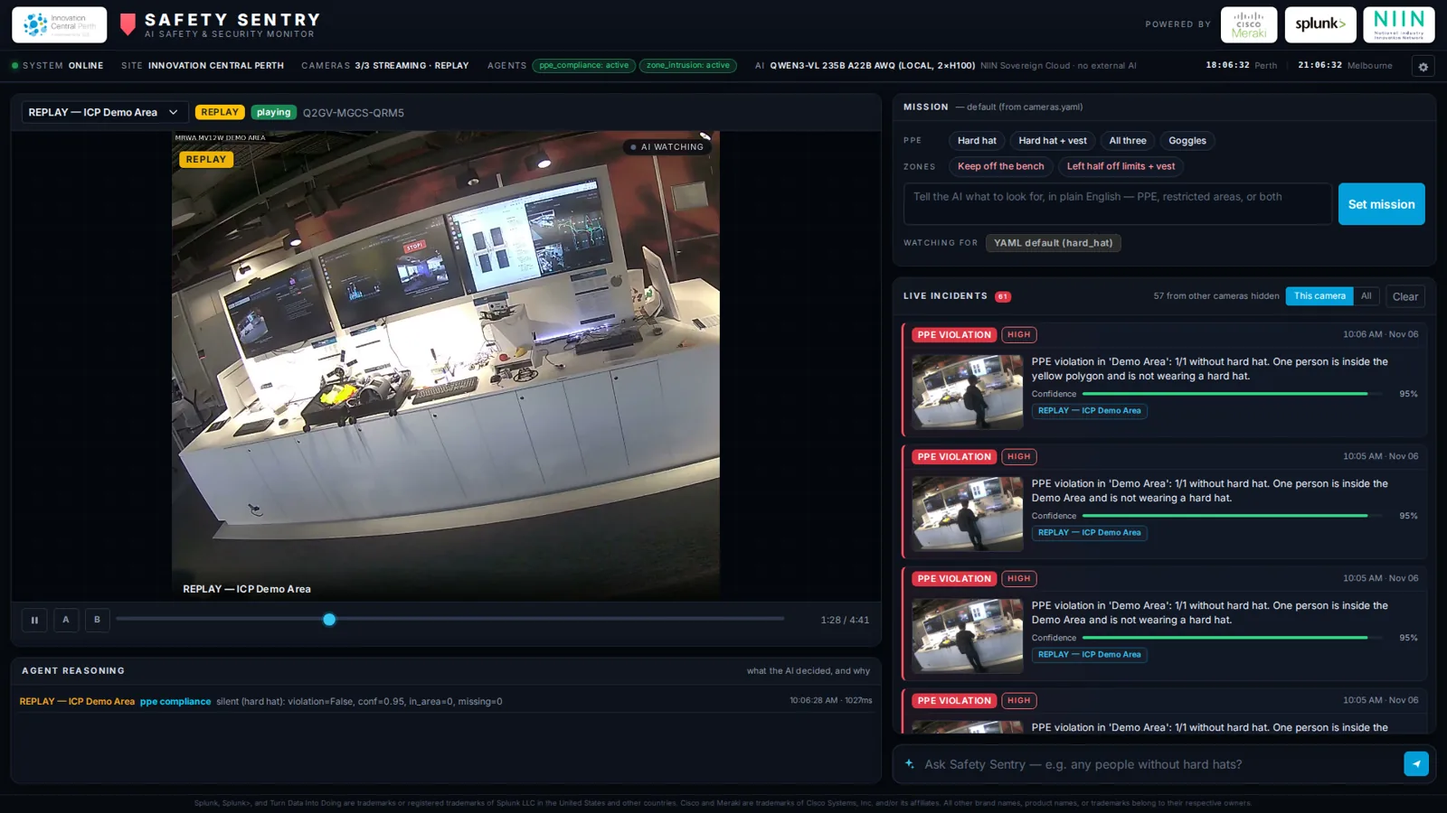
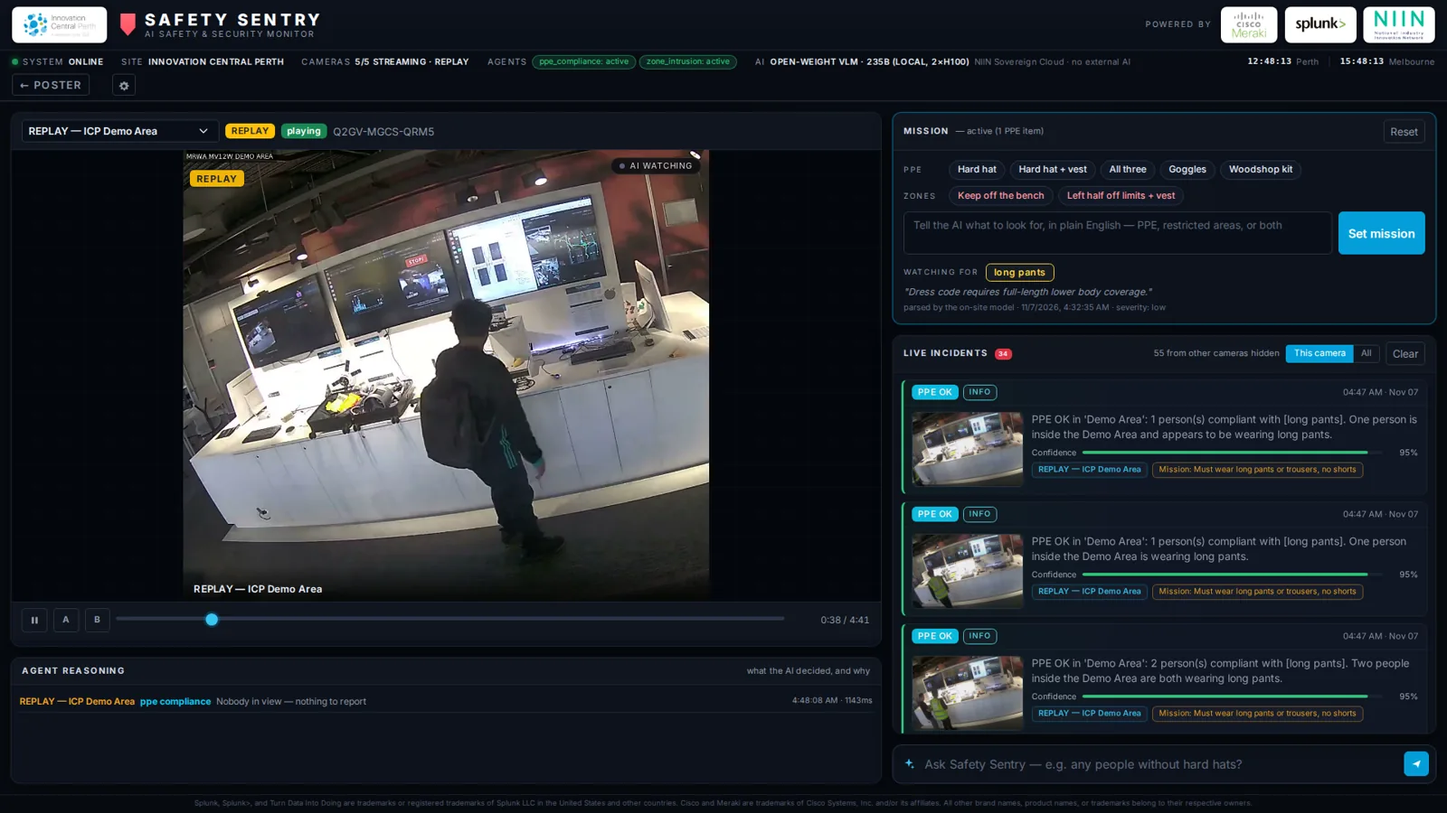
Poster: handheld vs big-screen modes, live-demo box, presenter notes, idle return
- Ninth wide box: on the big screen (served over http) it opens the live dashboard; on the
  handheld (saved file) it points visitors to the big screen. #handheld / #screen override.
- Screen copy returns to the overview after 60 s idle; handheld never auto-resets.
- Presenter notes (Say / Point at / Careful) per tile, off unless opened with #notes.
- Dashboard: '<- Poster' button. Refreshed the dashboard screenshot (was showing the model
  name in the status bar; now neutral).
- Runbook: stand roles, walk-through order, reset-the-demo checklist, say / don't-say card.

diff --git a/poster/template.html b/poster/template.html
@@ -44,8 +44,32 @@ h1, h2, h3, p { margin: 0; }
 
 /* ---- overview grid ---- */
 .grid { flex: 1 1 auto; min-height: 0; display: grid; gap: .8rem; padding: .85rem 1.1rem;
-  grid-template-columns: repeat(4, 1fr); grid-template-rows: repeat(2, 1fr); }
-@media (orientation: portrait) { .grid { grid-template-columns: repeat(2, 1fr); grid-template-rows: repeat(4, 1fr); } }
+  grid-template-columns: repeat(4, 1fr); grid-template-rows: repeat(2, 1fr) auto; }
+@media (orientation: portrait) { .grid { grid-template-columns: repeat(2, 1fr); grid-template-rows: repeat(4, 1fr) auto; } }
+.tile.cta { grid-column: 1 / -1; flex-direction: row; align-items: center; gap: 1.1rem; padding: .75rem 1.2rem;
+  background: linear-gradient(100deg, rgba(4,159,217,.22), rgba(4,159,217,.06)); border-color: rgba(4,159,217,.7); }
+.tile.cta .num { flex-direction: column; gap: .2rem; min-width: 2.2rem; }
+.tile.cta .ctext { flex: 1 1 auto; min-width: 0; }
+.tile.cta h2 { margin-top: 0; font-size: 1.25rem; }
+.tile.cta .one { font-size: .86rem; }
+.tile.cta .arrow { flex: none; font-size: 2.1rem; font-weight: 800; color: var(--accent2); line-height: 1; }
+.tile.cta.link .arrow { animation: nudge 1.6s ease-in-out infinite; }
+@keyframes nudge { 50% { transform: translateX(.35rem); } }
+@media (prefers-reduced-motion: reduce) { .tile.cta.link .arrow { animation: none; } }
+
+/* presenter notes: off unless the page is opened with #notes */
+.notesbtn { position: fixed; right: .8rem; bottom: .8rem; z-index: 60; padding: .5rem 1rem; border-radius: 999px;
+  background: rgba(139,149,168,.2); border: 1px solid var(--line2); font-size: .8rem; font-weight: 700; letter-spacing: .06em; color: var(--text); backdrop-filter: blur(6px); }
+.notes { position: fixed; left: 0; right: 0; bottom: 0; z-index: 55; max-height: 62vh; overflow: auto; padding: 1rem 1.3rem 4rem;
+  background: rgba(7,11,20,.96); border-top: 2px solid var(--warn); box-shadow: 0 -12px 40px rgba(0,0,0,.6); }
+.notes h4 { font-size: .7rem; letter-spacing: .18em; text-transform: uppercase; color: var(--warn); margin-bottom: .5rem; }
+.notes .ncols { display: grid; grid-template-columns: repeat(3, 1fr); gap: 1.2rem; }
+@media (orientation: portrait) { .notes .ncols { grid-template-columns: 1fr; gap: .6rem; } }
+.notes .nk { font-size: .64rem; letter-spacing: .16em; text-transform: uppercase; font-weight: 800; margin-bottom: .25rem; }
+.notes .nk.say { color: var(--ok); } .notes .nk.point { color: var(--accent2); } .notes .nk.avoid { color: #ff8a95; }
+.notes ul { margin: 0; padding-left: 1.1rem; font-size: .95rem; line-height: 1.4; color: #dbe2ef; }
+.notes li { margin-bottom: .3rem; }
+
 .tile { position: relative; display: flex; flex-direction: column; text-align: left; min-height: 0; overflow: hidden;
   background: var(--panel); border: 1px solid var(--line); border-radius: var(--r); padding: .9rem 1rem;
   transition: transform .12s ease, border-color .15s ease, background .15s ease; }
@@ -313,8 +337,28 @@ window.POSTER = __POSTER_JSON__;
     { id: 'next', n: 8, title: 'What’s next · say hello', one: 'Splunk and live video are next.',
       viz: `<div class="qrtile"><div class="qrbox">${QR_SVG}</div><div class="qrtext">Scan to reach<br>Innovation Central Perth<small>on LinkedIn</small></div></div>` },
   ];
+  /* How this copy of the poster is being used:
+       screen   = served from the VM (the big screen): the last box opens the live demo, and the
+                  poster returns to the overview after a minute of nobody touching it;
+       handheld = saved file on the roaming tablet: the last box points people to the big screen. */
+  const HASH = location.hash.toLowerCase();
+  const MODE = HASH.includes('handheld') ? 'handheld' : HASH.includes('screen') ? 'screen' : (/^https?:$/.test(location.protocol) ? 'screen' : 'handheld');
+  const DEMO_URL = /^https?:$/.test(location.protocol) ? location.origin + '/' : P.demo_url;
+  if (HASH.includes('notes')) localStorage.setItem('ss.notes', '1');
+  if (HASH.includes('nonotes')) localStorage.removeItem('ss.notes');
+  const NOTES_ON = localStorage.getItem('ss.notes') === '1';
   const grid = $('#grid');
+  TILES.push({ id: 'demo', n: 9, cta: true, title: MODE === 'screen' ? 'Live demo' : 'See it live on the big screen',
+    one: MODE === 'screen' ? 'Open the running system: cameras, missions, Ask. Replayed footage, live analysis.' : 'The running system is on the big screen. Walk over and we’ll show you.' });
   TILES.forEach((t) => {
+    if (t.cta) {
+      const el = h(`<button class="tile cta${MODE === 'screen' ? ' link' : ''}" type="button" data-id="demo">
+        <div class="num"><span>09</span></div><div class="ctext"><h2>${t.title}</h2><div class="one">${t.one}</div></div>
+        <span class="arrow">${MODE === 'screen' ? '▶' : '→'}</span></button>`);
+      el.addEventListener('click', () => { if (MODE === 'screen') location.href = DEMO_URL; else openPanel('demo'); });
+      grid.appendChild(el);
+      return;
+    }
     const el = h(`<button class="tile${t.star ? ' star' : ''}" type="button" data-id="${t.id}">
       <div class="num"><span>${String(t.n).padStart(2, '0')}</span>${t.star ? '<span class="star-tag">★ Try this</span>' : ''}</div>
       <h2>${t.title}</h2><div class="viz">${t.viz}</div><div class="one">${t.one}</div><div class="go">Tap to explore ›</div></button>`);
@@ -334,11 +378,12 @@ window.POSTER = __POSTER_JSON__;
     const pc = h('<div class="pc"></div>'); pbody.appendChild(pc);
     def.render(pc);
     panel.hidden = false;
+    showNotes(id);
     if (!fromPop) history.pushState({ panel: id }, '');
   }
   function closePanel(fromPop) {
     if (panel.hidden) return;
-    clearTimers(); panel.hidden = true;
+    clearTimers(); panel.hidden = true; showNotes('overview');
     if (!fromPop && history.state && history.state.panel) history.back();
   }
   $('#back').addEventListener('click', () => closePanel(false));
@@ -584,6 +629,102 @@ window.POSTER = __POSTER_JSON__;
         <div class="words"><b>Want this on your site?</b><p class="sub" style="margin-top:0">Find Innovation Central Perth on LinkedIn: scan the code, or ask us to show you the live system.</p>
         <p class="sub">Innovation Central Perth is a partnership between Curtin University and Cisco.</p></div></div>`;
   } };
+
+
+  /* the last box on a handheld copy: where to see the live system */
+  PANELS.demo = { title: 'Live demo', sub: '09', render(el) {
+    el.innerHTML = `<p class="lead">The running system is on the big screen.</p>
+      <p class="sub">Everything on this poster was recorded from it. On the screen you can see it work, and change what it is looking for.</p>
+      <div class="lessons">
+        <div class="card"><h3>Cameras</h3><p>Replayed footage from Innovation Central Perth and a woodshop. Always badged REPLAY. Scrub the video or loop a moment.</p></div>
+        <div class="card"><h3>Missions</h3><p>Type what to look for, in plain English, and watch the verdicts and incidents change within seconds.</p></div>
+        <div class="card"><h3>Ask</h3><p>Ask what it has seen: “Was anyone not wearing hearing protection?”</p></div>
+        <div class="card"><h3>On-site</h3><p>Analysed by an open-weight model on GPUs in NIIN Sovereign Cloud. Nothing goes to a public cloud AI.</p></div>
+      </div>
+      <p class="rec" style="margin-top:1.1rem">Walk over and we’ll show you.</p>`;
+  } };
+
+  /* ---------------- presenter notes (only with #notes in the address) ---------------- */
+  const NOTES = {
+    overview: {
+      say: ['“Most sites have cameras. Very few have anyone watching them. Let me show you what we built about that.”',
+        'Talk through tiles 1–7 in order, about 30 seconds each. Tile 8 is how to reach us. Tile 9 is the big screen.',
+        'It is internal: Cisco and Curtin colleagues. Keep it conversational.'],
+      point: ['The partner logos at the top: Meraki cameras, Splunk (next), NIIN (hosting), Innovation Central Perth.',
+        'Tile 3 has the star. If time is short, do 1, 3, then 9.'],
+      avoid: ['Don’t call anything live on this tablet: every frame here is recorded footage.', 'Don’t tap tile 9 on the handheld. Walk them to the big screen.'] },
+    problem: {
+      say: ['“These are real frames from our own Meraki cameras. Footage like this piles up faster than anyone can watch it.”',
+        '“And what counts as unsafe changes: a hard hat here, goggles there, a keep-out zone only while a crane lifts.”'],
+      point: ['The camera wall: quiet moment and a busy one for each camera.'],
+      avoid: ['Don’t say existing detectors are bad. They are fast and fixed; this one is flexible.'] },
+    idea: {
+      say: ['“You just tell it what to look for, in plain English. No retraining, no code.”',
+        `“The on-site model turns the sentence into checks in about ${(parseLat / 1000).toFixed(1)} seconds.”`],
+      point: ['The three examples: items, a keep-out zone, and a mixed mission.'],
+      avoid: ['Don’t say it understands anything you type. Next panels show where it struggles.'] },
+    hero: {
+      say: ['“Same frame, same moment. Watch the verdict change as I change the mission.”',
+        'Switch Scene to Woodshop: same person, same saw, more protection each time. Tap “All three” on each.',
+        '“These are results recorded from the running system, with the real time it took.”'],
+      point: ['“All three” on the first frame is a violation, on the full-kit frame it is compliant.',
+        'The recorded time per verdict, about a second or two.'],
+      avoid: ['Don’t say it is perfect. The last Lessons card gives the measured woodshop accuracy.',
+        'On the full-kit frame the glasses-only chip is left out on purpose, because it gets that one wrong. Say so if asked.'] },
+    how: {
+      say: ['“Meraki cameras, a frame about once a second, an on-site vision model, agents that judge each frame against the mission, and every finding saved with evidence.”',
+        'Tap the Vision AI step to explain where it runs: two H100 GPUs in NIIN Sovereign Cloud.'],
+      point: ['The “Model card” button on Vision AI shows the exact model.'],
+      avoid: ['If asked which model: answer plainly. Tap Model card and read it out, then say it is open weights, running on our own GPUs. Don’t deflect.',
+        'Say “no frame leaves the site”. Only say “the AI server has no route to the internet” once the runbook’s egress check is ticked.',
+        'Don’t say it is on-premise. It is in NIIN Sovereign Cloud.'] },
+    ask: {
+      say: ['“You can ask it about what it has seen, in plain English.”',
+        '“The model plans the question, a database does the counting, the model words the answer, and every number is checked against the data.”'],
+      point: ['The example where it says “I wasn’t checking for that. Want me to start?”: it admits what it didn’t look at.'],
+      avoid: ['Don’t say it never gets things wrong. The checking is there because it once did.'] },
+    numbers: {
+      say: [`“About ${latMed.toFixed(1)} seconds per frame; many cameras at once on the same hardware.”`,
+        '“These are measured on this system, not a spec sheet.”'],
+      point: ['The load-test figures and the recorded question times.'],
+      avoid: ['Don’t compare with other products or claim a benchmark. It is one system, measured once.'] },
+    lessons: {
+      say: ['“We learned some honest things.” Read the four cards; they are the most credible part of the poster.',
+        `Card 3: woodshop accuracy ${P.woodshop_eval.item_correct} of ${P.woodshop_eval.item_judgments} checks. Clear glasses and earmuffs with the head turned away are the misses.`],
+      point: ['The measured numbers on card 3.'],
+      avoid: ['Don’t skip card 3 or round it up. The honesty is the point.'] },
+    next: {
+      say: ['“Next: every incident searchable in Splunk, and live video from the lab over a camera relay.”',
+        'Hand over the QR: it goes to the Innovation Central Perth LinkedIn page.'],
+      point: ['The Now / Next / Later columns.'],
+      avoid: ['Splunk is next, not built. Don’t imply an integration exists.', 'Live video is not working yet: the cameras’ video stream isn’t reachable from the server. The demo uses replay.'] },
+    demo: {
+      say: ['“The running system is on the big screen. Let me walk you over.”'],
+      point: ['Before you go: check the big screen has the intended mission and a cleared feed (runbook: Reset the demo).'],
+      avoid: ['Don’t open the live demo from the handheld tablet. Walking over is the point.'] },
+  };
+  const notesBtn = h('<button class="notesbtn" type="button" hidden>Notes</button>');
+  const notesBox = h('<aside class="notes" hidden></aside>');
+  document.body.append(notesBtn, notesBox);
+  let notesOpen = false, notesFor = 'overview';
+  function showNotes(id) {
+    notesFor = id; if (!NOTES_ON) return;
+    notesBtn.hidden = false;
+    const n = NOTES[id] || NOTES.overview;
+    const list = (k, label, arr) => `<div><div class="nk ${k}">${label}</div><ul>${(arr || []).map((x) => `<li>${x}</li>`).join('')}</ul></div>`;
+    notesBox.innerHTML = `<h4>Presenter notes · ${id === 'overview' ? 'overview' : esc(PANELS[id].title)}</h4><div class="ncols">${list('say', 'Say', n.say)}${list('point', 'Point at', n.point)}${list('avoid', 'Careful', n.avoid)}</div>`;
+    notesBox.hidden = !notesOpen; notesBtn.textContent = notesOpen ? 'Hide notes' : 'Notes';
+  }
+  notesBtn.addEventListener('click', () => { notesOpen = !notesOpen; showNotes(notesFor); });
+  showNotes('overview');
+
+  /* big-screen copy only: back to the overview after a minute with nobody touching it */
+  if (MODE === 'screen') {
+    let idle = null;
+    const arm = () => { clearTimeout(idle); idle = setTimeout(() => { notesOpen = false; if (!panel.hidden) closePanel(false); showNotes('overview'); window.scrollTo(0, 0); }, 60000); };
+    ['pointerdown', 'pointermove', 'keydown', 'wheel', 'touchstart'].forEach((ev) => document.addEventListener(ev, arm, { passive: true }));
+    arm();
+  }
 
   // Restore a panel if the page was reloaded on one (history state) — otherwise start at the overview.
   history.replaceState(null, '');

diff --git a/app/dashboard/templates/index.html b/app/dashboard/templates/index.html
@@ -47,6 +47,7 @@
       <span class="ops-sep">|</span>
       <b id="ops-clock-melb">--:--:--</b> <span class="ops-sub">Melbourne</span>
     </span>
+    <a class="btn btn-sm btn-ghost ops-poster" id="poster-link" href="/static/poster/safety-sentry-poster.html" title="Back to the poster">← Poster</a>
     <div class="dropdown">
       <button class="btn btn-sm btn-ghost ops-gear" type="button" data-bs-toggle="dropdown"
               data-bs-auto-close="outside" aria-expanded="false" title="Operator controls">

diff --git a/static/css/main.css b/static/css/main.css
@@ -746,3 +746,4 @@ a.partner-tile:hover { transform: translateY(-1px); box-shadow: 0 4px 14px rgba(
 
 .model-card { margin-top: .45rem; font-size: .72rem; line-height: 1.4; color: var(--muted); }
 .ops-menu .model-card { text-transform: none; letter-spacing: 0; }
+.ops-poster { margin-right: .4rem; padding: .2rem .6rem; font-weight: 600; text-decoration: none; }

diff --git a/tests/test_poster.py b/tests/test_poster.py
@@ -106,3 +106,37 @@ def test_camera_wall_uses_real_frames(html):
     # The feeds are dressed as a monitoring wall: REC badge, camera label, scan-line overlay.
     assert 'class="rec"' in html.replace('\\"', '"') or '<span class="rec">' in html
     assert ".feed::before" in html and "repeating-linear-gradient" in html
+
+
+def test_last_box_has_two_modes_and_notes_stay_hidden_by_default(html):
+    # Screen copy opens the live demo, handheld copy only points at the big screen.
+    assert "location.href = DEMO_URL" in html and "See it live on the big screen" in html
+    assert "const MODE =" in html and "handheld" in html and "screen" in html
+    assert "setTimeout(() => {" in html and "60000" in html  # idle return, screen mode only
+    # Presenter notes exist for every tile but are off unless #notes was used.
+    for tile in (
+        "overview",
+        "problem",
+        "idea",
+        "hero",
+        "how",
+        "ask",
+        "numbers",
+        "lessons",
+        "next",
+        "demo",
+    ):
+        assert re.search(rf"\b{tile}: \{{\s*say:", html), tile
+    assert "HASH.includes('notes')" in html and "if (!NOTES_ON) return;" in html
+    # The URL is built in JS from data, never as an http link in the markup.
+    assert re.search(r'"demo_url": "http://[^"]+/"', html)
+    assert "Qwen" not in html.split("window.POSTER")[0] and html.count("Qwen") == 1
+
+
+def test_dashboard_links_back_to_the_poster():
+    from fastapi.testclient import TestClient
+
+    from app.main import app
+
+    page = TestClient(app).get("/").text
+    assert 'id="poster-link"' in page and "/static/poster/safety-sentry-poster.html" in page

diff --git a/poster/build_poster.py b/poster/build_poster.py
@@ -12,6 +12,7 @@ from __future__ import annotations
 
 import base64
 import json
+import os
 import shutil
 from pathlib import Path
 
@@ -20,6 +21,8 @@ import segno
 ROOT = Path(__file__).resolve().parent
 REPO = ROOT.parent
 LINKEDIN = "https://www.linkedin.com/company/18071579/"
+# Where the big screen's live demo lives; used only when the poster is opened as a saved file.
+DEMO_URL = os.environ.get("DEMO_URL", "http://xenterm-wl180:8001/")
 # Real frames for the camera wall (see extract_cctv.py): file stem, on-screen label.
 CCTV = [
     ("demo-quiet", "CAM 01 · DEMO AREA"),
@@ -54,6 +57,7 @@ def main() -> None:
     ]
     results["dashboard"] = data_uri(ROOT / "assets" / "dashboard.webp")
     results["linkedin"] = LINKEDIN
+    results["demo_url"] = DEMO_URL
 
     qr = segno.make(LINKEDIN, error="m").svg_inline(
         omitsize=True, dark="#0b1220", light="#ffffff", border=0

diff --git a/docs/EXPO_RUNBOOK.md b/docs/EXPO_RUNBOOK.md
@@ -247,15 +247,64 @@ agents and the real VLM.
   each card. Say this out loud if someone asks why a tile that is not on screen
   has incidents.
 
+## The stand: poster for the story, big screen for the demo
+
+Two copies of the **same poster file** do different jobs, and it works out which by where
+it was opened:
+
+| Copy | Where | What the last box (09) does |
+|---|---|---|
+| **Handheld** | Saved file on the roaming tablet (`file://...`), or any copy opened with `#handheld` | "See it live on the big screen": opens a short panel, no network needed. Nothing here can change the live demo. |
+| **Big screen** | One tab in the screen's tab cycle, opened from `http://xenterm-wl180:8001/static/poster/safety-sentry-poster.html` | "Live demo": opens the running dashboard in the same tab. The dashboard has a **← Poster** button to come back. After 60 s with nobody touching it the poster returns to the overview. |
+
+Open a copy with `#notes` on the end (once; the browser remembers) and a **Notes** button
+appears bottom-right: *Say / Point at / Careful* for whichever tile is open, so colleagues
+give the same answers. It is hidden from visitors by default; `#nonotes` turns it off.
+Overrides if it guesses wrong: `#handheld` or `#screen`.
+
+**How a walk-through goes** (about 5 minutes; tile order is the story): 01 problem, 02 the
+idea, **03 same moment, different mission** (switch Scene to *Woodshop* and tap *All
+three* on each frame), 04 how it works, 05 Ask, 06 numbers, 07 lessons, 08 QR. Then:
+"the real thing is on the big screen, let me walk you over", and run the cue sheet there.
+If time is short: 01, 03, then the big screen.
+
+### Reset the demo (one minute, before each group and whenever it has drifted)
+
+Several people and the presenter's laptop share one live mission, and whoever sets it last
+wins. On the big screen:
+
+- [ ] Poster tab is on the overview (it returns by itself after 60 s idle).
+- [ ] Dashboard: set the intended mission (e.g. *Hard hat + vest*, or *Woodshop kit* for the
+      woodshop cameras), then press **Clear feed** so counts start from now.
+- [ ] Camera tile says REPLAY and is playing; scrub bar near the start of the moment you
+      want to show.
+- [ ] Agents both *active*; status bar AI says *Open-weight VLM · 235B (local, 2×H100)*.
+- [ ] Tell the team who is allowed to change the mission right now.
+
+### Say / don't say (everyone, every time)
+
+- **Say:** "Recorded footage, live analysis." Replay is always badged REPLAY.
+- **Say:** Splunk is *next*, not built. Live video from the lab is *next*: the camera video
+  stream isn't reachable from the server yet.
+- **Say:** the AI runs on our own GPUs in NIIN Sovereign Cloud (not "on-premise"). Camera
+  frames and questions don't leave the server (measured in a 13-minute capture on 6 Nov: the
+  only outbound traffic was a small anonymous usage report from the serving software, under
+  1 KB every 10 minutes).
+- **Don't say:** "the AI server has no outbound connections / no internet" until the
+  egress check has been re-run clean after hardening (see *Which model is that?*).
+- **Which model?** Answer directly, see below. Never deflect.
+- **Accuracy:** never say it is perfect. Woodshop PPE: 78 of 81 checks right; clear glasses
+  and earmuffs with the head turned away are the misses. Goggles need the person close.
+- **Faces** in the footage are consented. No other people's footage is used.
+
 ## The poster on the tablet
 
-`poster/dist/safety-sentry-poster.html` is a standalone interactive poster (1 MB, works
+`poster/dist/safety-sentry-poster.html` is a standalone interactive poster (1.8 MB, works
 offline). Copy it to the tablet (USB, Nearby Share, Drive, or open
-`http://xenterm-wl180:8001/static/poster/safety-sentry-poster.html` on the tablet and save
-the page) and open it in Chrome or Fully Kiosk. Both orientations work. Tiles to lead
-with: **03 Same moment, different mission** (tap the mission chips and watch the verdict
-change on the same frame), then **05 Ask it anything**. The LinkedIn QR is in **08**.
-Everything on it is recorded from the live system; rebuild with
+`http://xenterm-wl180:8001/static/poster/safety-sentry-poster.html#handheld` on the tablet
+and save the page) and open it in Chrome or Fully Kiosk. Both orientations work. Tiles to
+lead with: **03 Same moment, different mission**, then **05 Ask it anything**. The LinkedIn
+QR is in **08**. Everything on it is recorded from the live system; rebuild with
 `python poster/record_results.py && python poster/build_poster.py` (see `poster/README.md`).
 
 ## "Which model is that?"

diff --git a/AGENTS.md b/AGENTS.md
@@ -156,7 +156,7 @@ config/
 
 ## Interactive poster
 - `poster/` builds one standalone HTML file (`poster/dist/safety-sentry-poster.html`, ~1 MB, no network) for the expo tablet (Galaxy Tab S9, landscape + portrait): 8 tap-to-open tiles, Android Back returns to the overview. Everything shown is **recorded from the running system** (`poster/record_results.py` runs the real agent prompts/parsers, the real mission parser and the real assistant against three source frames in `poster/assets/frames/`, saving `poster/data/results.json` and ask thumbnails); `poster/build_poster.py` inlines results, images, logos, the Inter font and a QR code (LinkedIn company page `https://www.linkedin.com/company/18071579/`, the public URL, not the admin one). A copy is written to `static/poster/` (served by the app). Output dirs are gitignored; see `poster/README.md`.
-- Honesty rules baked in: footage is labelled replayed; Splunk is shown as *Next*; the workshop frame omits the goggles mission (unreliable at that distance) and the Lessons panel says so; latencies are computed from the recording, not hard-coded. The hero panel has a **Scene** switcher: *Bench & workshop* (3 frames, PPE + zones) and *Woodshop* (the table-saw PPE ladder: none → hearing → glasses+hearing → full kit; 4 frames at 35% into `woodshop-table-N.mp4`, extracted by `poster/extract_woodshop.py`, recorded with `record_results.py --only woodshop`). The woodshop accuracy test (`woodshop_eval`, 5 frames per clip vs what is actually worn) feeds Lessons card 3; the glasses-only chip is omitted on the full-kit frame because the model gets it wrong there, and the poster says so. `tests/test_poster.py` checks the file is self-contained (no network loads), has the logos in the header and a QR, and contains the recorded data.
+- Honesty rules baked in: footage is labelled replayed; Splunk is shown as *Next*; the workshop frame omits the goggles mission (unreliable at that distance) and the Lessons panel says so; latencies are computed from the recording, not hard-coded. The hero panel has a **Scene** switcher: *Bench & workshop* (3 frames, PPE + zones) and *Woodshop* (the table-saw PPE ladder: none → hearing → glasses+hearing → full kit; 4 frames at 35% into `woodshop-table-N.mp4`, extracted by `poster/extract_woodshop.py`, recorded with `record_results.py --only woodshop`). The woodshop accuracy test (`woodshop_eval`, 5 frames per clip vs what is actually worn) feeds Lessons card 3; the glasses-only chip is omitted on the full-kit frame because the model gets it wrong there, and the poster says so. The last box (09) is mode-dependent: **screen** (served over http from the VM) opens the live dashboard and the poster returns to the overview after 60 s idle; **handheld** (saved file) points people to the big screen and can't change the demo. `#handheld` / `#screen` override; `#notes` shows per-tile presenter notes (Say / Point at / Careful; the notes must not name the model, `test_model_labels.py` enforces that). The dashboard has a **← Poster** button. `tests/test_poster.py` checks the file is self-contained (no network loads), has the logos in the header and a QR, and contains the recorded data.
 
 ## Model naming on screen
 - `config/models.yaml` has a neutral `label` ("Open-weight VLM · 235B (local, 2×H100)") that the dashboard shows everywhere (status bar, picker) and a `card` with the exact identity (name, quantisation, maker, licence), exposed by `GET /models/` and shown as **Model card** in the gear menu. The mission card says "parsed by the on-site model". The poster says "an open-weight vision-language model" and gives the exact name behind a **Model card** button. Nothing is hidden: repo, docs and API name the model; `tests/test_model_labels.py` keeps the on-screen defaults neutral and the card complete. If a new model is added, give it both a neutral `label` and a truthful `card`.

diff --git a/poster/README.md b/poster/README.md
@@ -31,6 +31,16 @@ To refresh the dashboard screenshot used in "How it works": `poster/capture_dash
    on Android *screen pinning*. The poster also asks the browser to keep the screen awake.
 3. Android's Back button returns from a panel to the overview.
 
+## Two modes, one file
+
+The last box (09) depends on where the page is opened: from the VM over http (the big
+screen) it is a **Live demo** link and the poster returns to the overview after 60 s idle;
+as a saved file (the roaming tablet) it says "See it live on the big screen". Overrides:
+`#handheld` / `#screen` on the URL. Add `#notes` once to show per-tile presenter notes
+(`NOTES` in `template.html`); `#nonotes` hides them. The saved-file demo address is
+`DEMO_URL` in `build_poster.py` (env var `DEMO_URL` overrides), used only if `#screen` is
+forced on a saved file.
+
 ## Editing
 
 - Content and layout: `poster/template.html` (plain HTML/CSS/JS, no framework).
